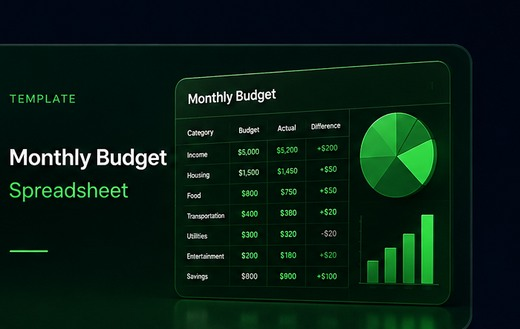
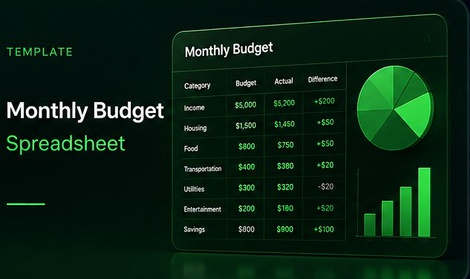
home: a template card is filled by its own picture, with no bar around it
Each card in Templates for You showed its picture inside a dark border. Two
causes, and both had to go.

The pictures carried the border themselves. The four were sliced out of one
2x2 composite and each kept the slice gutter on the two sides it had been cut
from, so roughly 44 pixels of backdrop was part of every file before the card
drew anything. The gutter is cropped out now and the artwork runs edge to edge.

The card was also fitting rather than filling. The frame asks the layout for
the artwork's proportions through heightForWidth, but a grid cell hands back
whatever height its row settled on, so the two rarely agreed: a 192x159 cell
holding a 1.76 picture drew it 192x109 and left 25 pixels of card above and
below it. Fitting was chosen originally because filling cropped the wording off
the artwork, which it did while the artwork still had its own margin. Now that
it does not, the card fills.

Overspill comes off the RIGHT and never off the left. These renders put their
wording down the left side and their picture down the right, so a centred fill
takes the first letter off each line and "Spreadsheet" arrives as "preadsheet".

Two things that looked like fixes and were not, recorded so they are not tried
again. Insetting the crop past the artwork's own rounded corners cut into the
wording, which sits closer to the edge than it appears; once the card fills,
those corners land on the card's corners and its own rounded clip removes them,
[…]

diff --git a/src/app/startscreen/StartScreen.cpp b/src/app/startscreen/StartScreen.cpp
@@ -275,21 +275,50 @@ protected:
         p.setClipPath(clip);
         p.fillRect(box, QColor(Home::kPanelSoft));
 
+        // Fill, not fit. Fitting leaves the card's own background showing as a
+        // dark band wherever the frame and the artwork disagree, and they
+        // disagree at nearly every window size: the frame asks for the
+        // artwork's aspect through heightForWidth, but the grid cell hands back
+        // whatever height its row settled on. A 192x159 cell holding a 1.76
+        // picture was drawing it 192x109 and leaving 25px of card above and
+        // below, which is the bar.
+        //
+        // Filling is only safe because the artwork no longer carries a margin
+        // of its own. These four were sliced out of one composite and each kept
+        // the slice gutter on two sides, so the picture already sat inside a
+        // dark border before the card added anything.
         const QSize want = size() * devicePixelRatio();
-        if (m_scaled.isNull() || m_scaled.size() != want) {
+        if (!want.isEmpty() && (m_scaled.isNull() || m_filledTo != want)) {
             const QPixmap src(m_art);
             if (!src.isNull()) {
-                // Fit, not fill: the artwork carries its own title, and filling
-                // cropped the words off the side of it.
-                m_scaled = src.scaled(want, Qt::KeepAspectRatio,
+                m_scaled = src.scaled(want, Qt::KeepAspectRatioByExpanding,
                                       Qt::SmoothTransformation);
                 m_scaled.setDevicePixelRatio(devicePixelRatio());
+                m_filledTo = want;
             }
         }
         if (!m_scaled.isNull()) {
             const QSizeF drawn = m_scaled.deviceIndependentSize();
-            p.drawPixmap(QPointF((width() - drawn.width()) / 2.0,
-                                 (height() - drawn.height()) / 2.0), m_scaled);
+            // Overspill comes off the RIGHT, never off the left. Every one of
+            // these renders puts its wording down the left side and its picture
+            // down the right, so a centred fill takes the first letter off each
+            // line: "Spreadsheet" arrives as "preadsheet". Anchoring left costs
+            // a sliver of backdrop instead.
+            const qreal x = drawn.width() > width() ? 0.0
+                                                    : (width() - drawn.width()) / 2.0;
+            if (qEnvironmentVariableIsSet("NATIVEOFFICE_HOME_ARTCARD") && !m_logged) {
+                m_logged = true;
+                const QPixmap srcDbg(m_art);
+                qInfo("[artcard] %s card %dx%d (%.3f) src %dx%d (%.3f) drawn %.0fx%.0f "
+                      "at x=%.0f y=%.0f  cropX=%.0f cropY=%.0f",
+                      qUtf8Printable(m_art.section('/', -1)), width(), height(),
+                      double(width()) / qMax(1, height()),
+                      srcDbg.width(), srcDbg.height(),
+                      double(srcDbg.width()) / qMax(1, srcDbg.height()),
+                      drawn.width(), drawn.height(), x, (height() - drawn.height()) / 2.0,
+                      drawn.width() - width(), drawn.height() - height());
+            }
+            p.drawPixmap(QPointF(x, (height() - drawn.height()) / 2.0), m_scaled);
         }
 
         if (m_hover) {
@@ -308,6 +337,10 @@ protected:
 private:
     QString m_art;
     QPixmap m_scaled;
+    // The box m_scaled was scaled to fill, which is larger than the box on one
+    // axis, so its own size is not a usable cache key.
+    QSize   m_filledTo;
+    bool    m_logged { false };
     int     m_radius { 12 };
     qreal   m_aspect { 0.0 };
     bool    m_hover  { false };
@@ -713,6 +746,24 @@ void StartScreen::buildUi() {
         // height instead of the visible slice, so a review can see the panels
         // that sit below the fold on a short screen.
         const bool grabFull = qEnvironmentVariableIsSet("NATIVEOFFICE_HOME_GRAB_FULL");
+        // NATIVEOFFICE_HOME_SIZE resizes the window before the grab. The home
+        // screen's cards are laid out four to a row, so their shape follows the
+        // window width and a fault in how the artwork is placed inside them
+        // only shows at some sizes. One capture proves nothing.
+        if (qEnvironmentVariableIsSet("NATIVEOFFICE_HOME_SIZE")) {
+            // On a timer, and well before the grab: the shell maximizes its
+            // window after the home screen is constructed, so resizing here and
+            // now is simply undone a moment later.
+            QTimer::singleShot(3500, this, [this] {
+                const QStringList wh =
+                    qEnvironmentVariable("NATIVEOFFICE_HOME_SIZE").split(QLatin1Char(','));
+                auto* top = window();
+                if (!top) return;
+                // resize() is ignored while a window is maximized.
+                if (top->isMaximized() || top->isFullScreen()) top->showNormal();
+                top->resize(wh.value(0).toInt(), wh.value(1).toInt());
+            });
+        }
         QTimer::singleShot(6000, this, [this, grabPath, grabSettings, grabFull, scroll] {
             // A dialog opened by NATIVEOFFICE_HOME_SHOW is its own top-level
             // window, so grabbing the main window would capture the page behind
